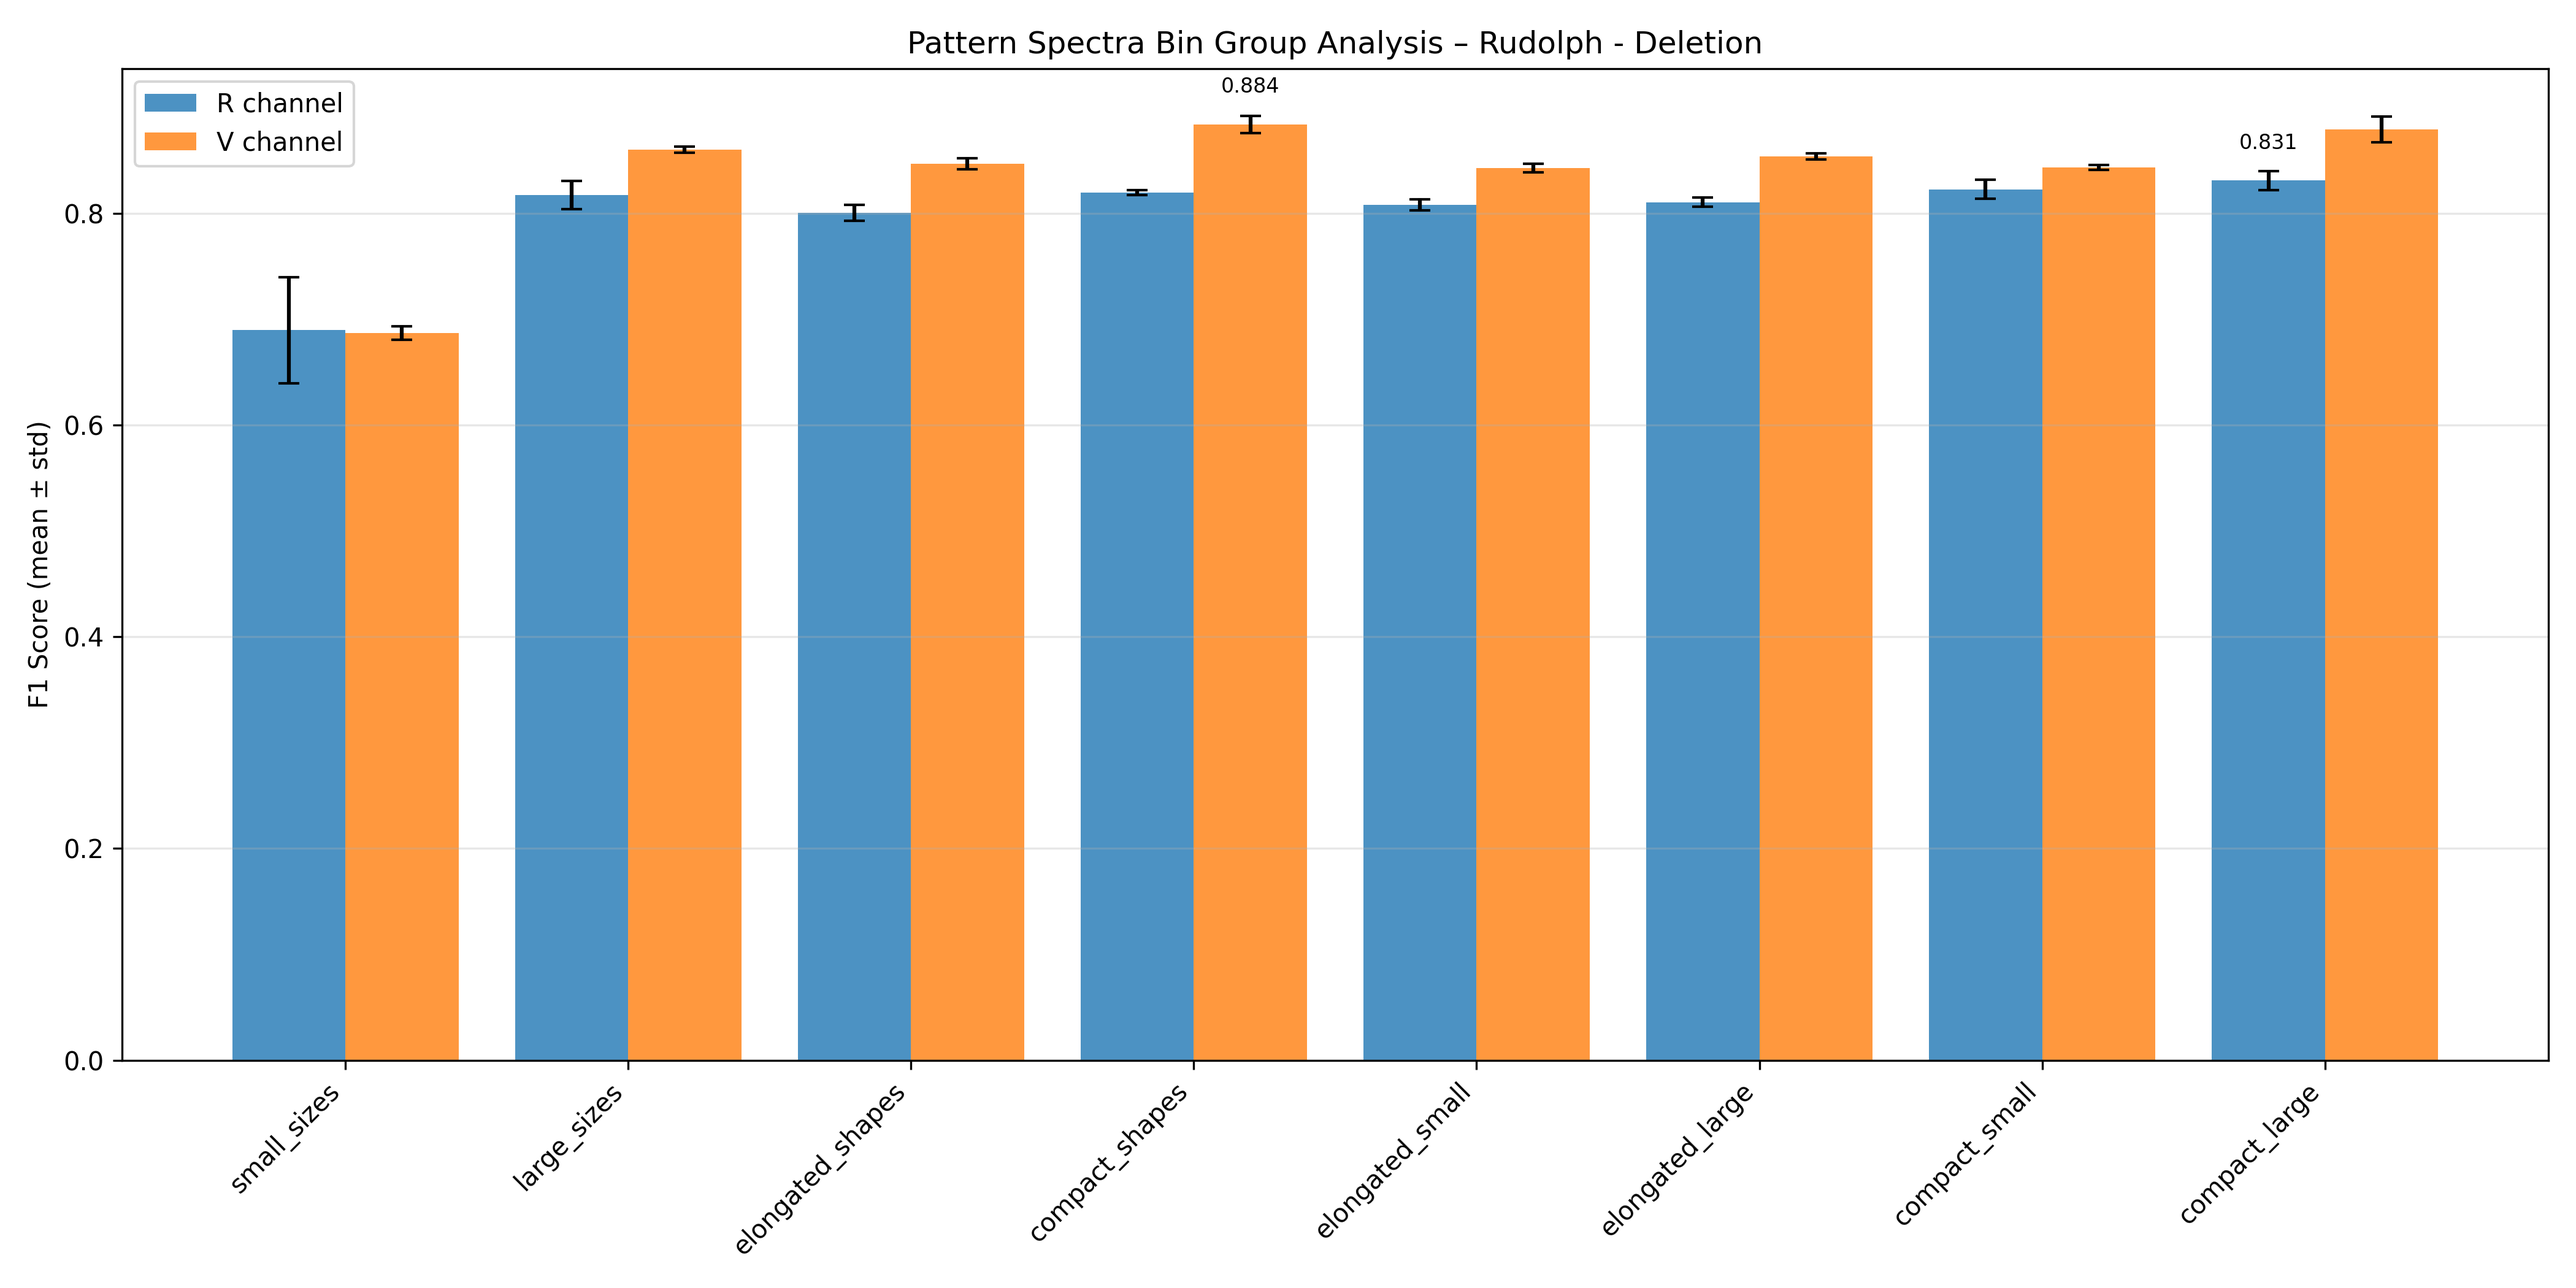
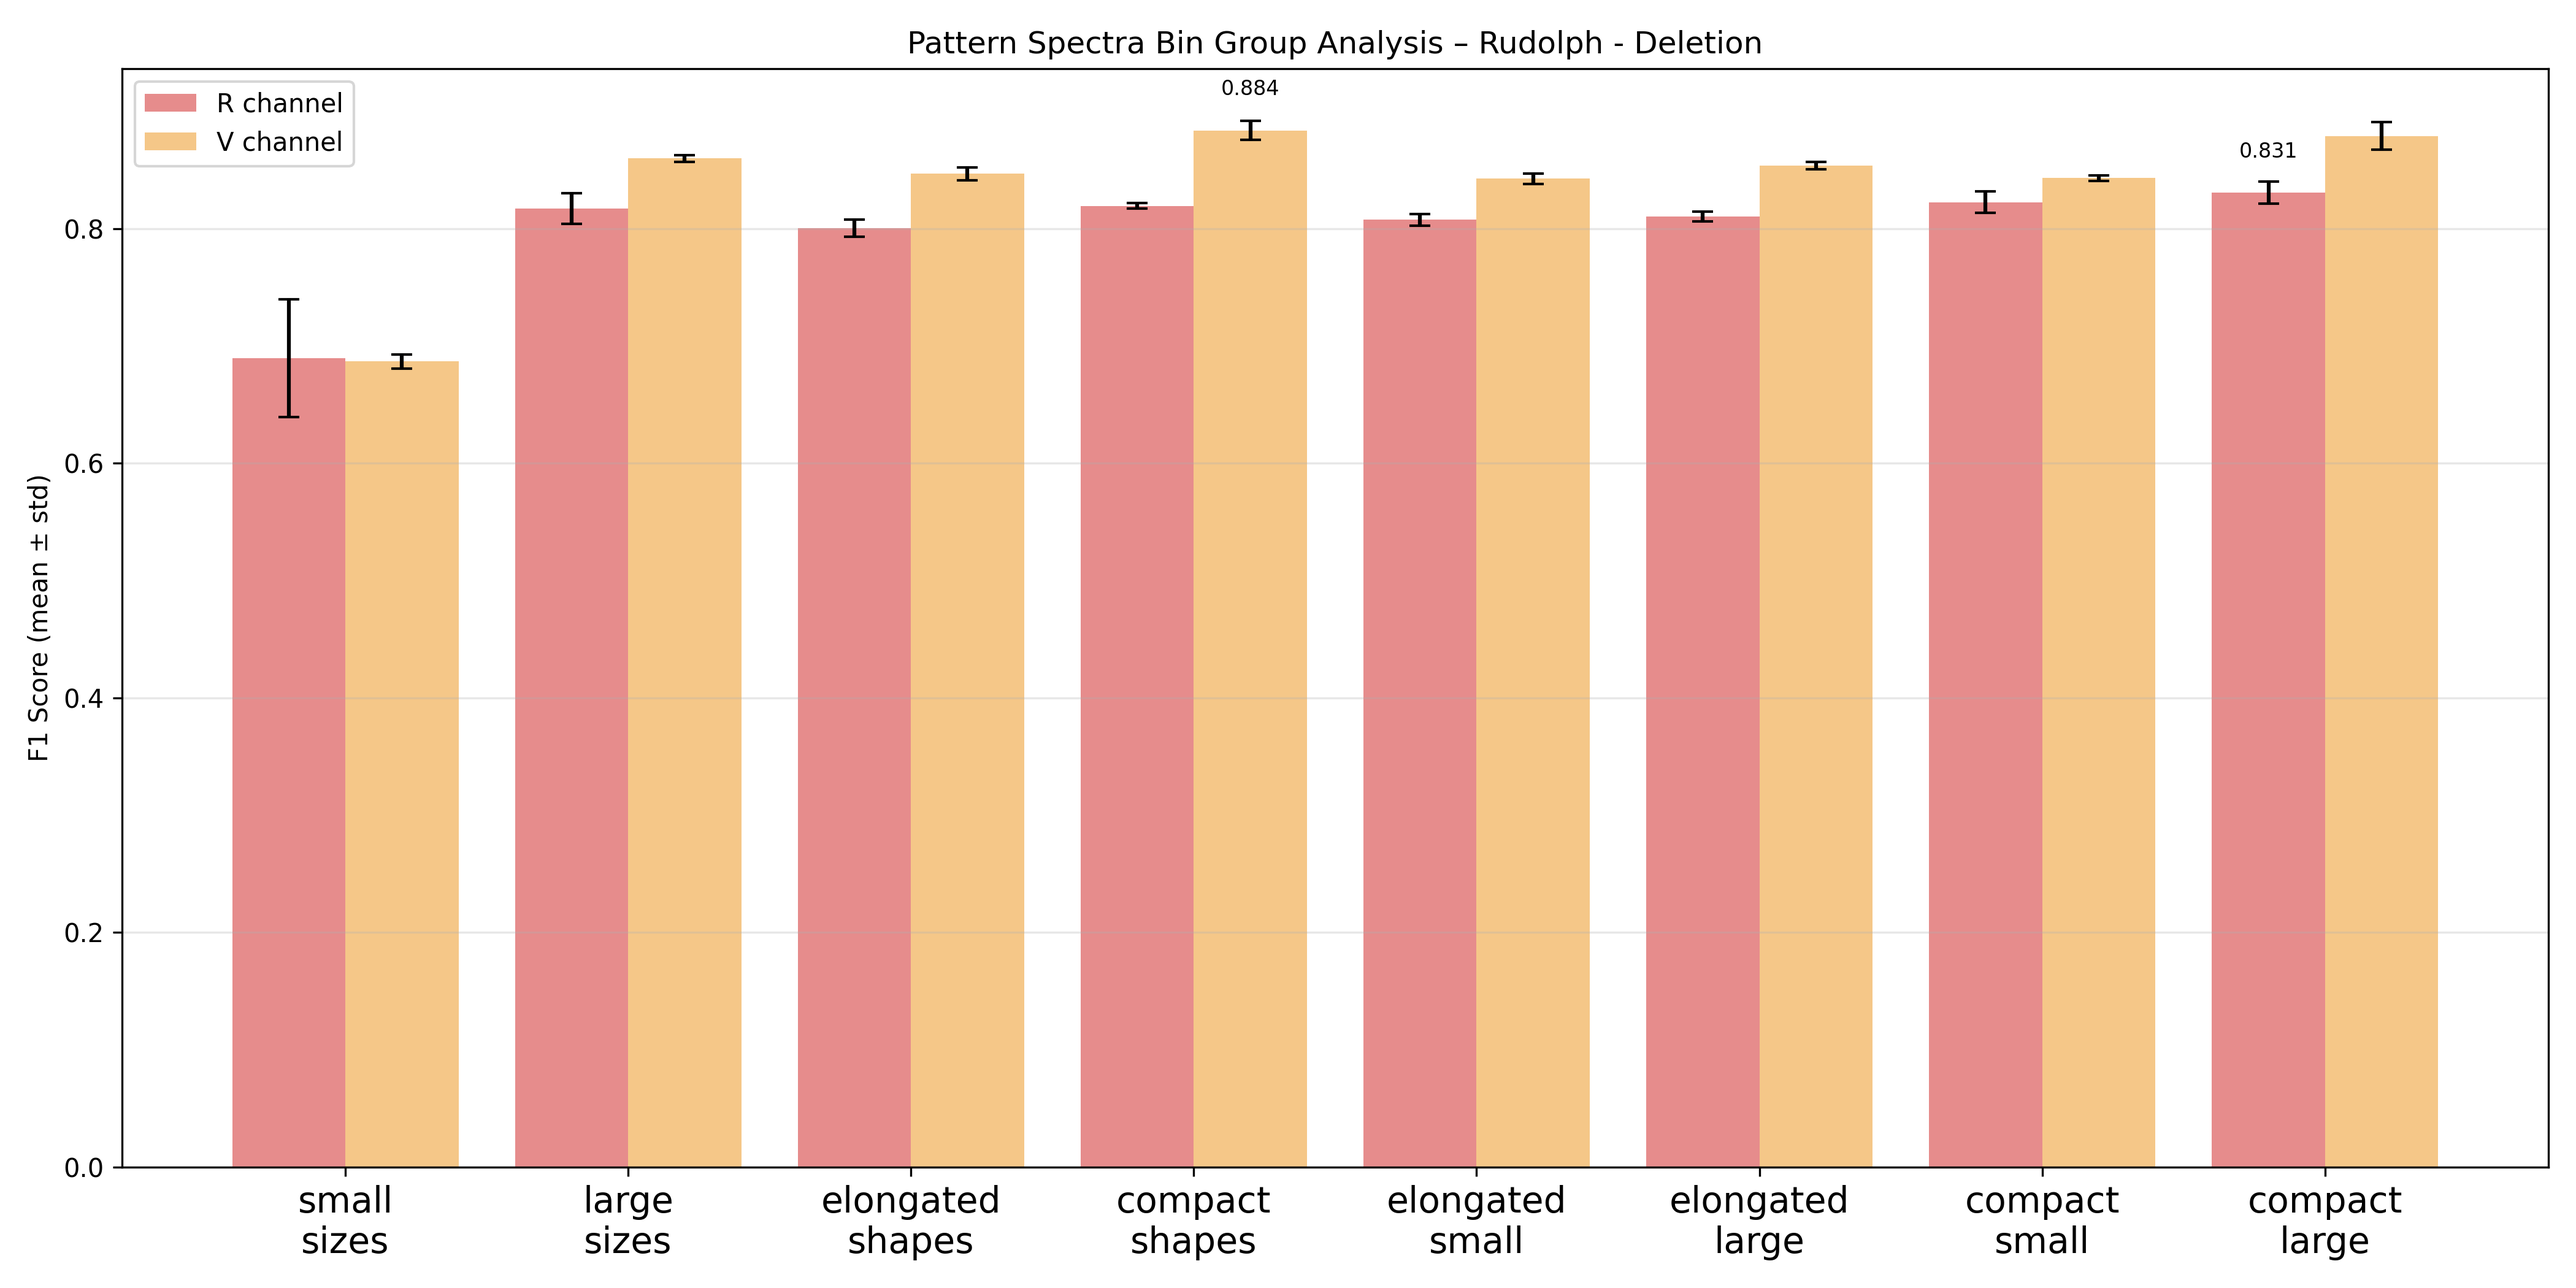
made plots prettier and cleaned up experiment a bit

diff --git a/Feature_Extraction/run_bin_analysis.py b/Feature_Extraction/run_bin_analysis.py
@@ -117,7 +117,7 @@ def create_feature_array_from_10x10(arr_10x10, shape_bins, size_bins): # INSERTI
 
 def create_feature_array_deletion(arr_10x10, shape_bins_to_remove, size_bins_to_remove):
     # return all bins except those in shape_bins_to_remove and size_bins_to_remove - FOR DELETION CASE
-    mask = np.ones((11, 11), dtype=bool)
+    mask = np.zeros((11, 11), dtype=bool)
     mask[np.ix_(shape_bins_to_remove, size_bins_to_remove)] = False
     sel = arr_10x10[mask] # apply removal mask 
 
@@ -205,25 +205,17 @@ def collect_preloaded(ROOT_DIR, label_map=LABEL_MAP, channels_to_load=None):
             for p in pattern_files:
                 arr = load_granulometry_m_file(p)
                 if arr.size == 0:
-                    arr10 = np.zeros((10, 10))
+                    continue
                 else:
                     arr = np.array(arr)
-                    if arr.shape[0] < 11 or arr.shape[1] < 11:
-                        arr11 = np.zeros((11, 11))
-                        h = min(11, arr.shape[0])
-                        w = min(11, arr.shape[1])
-                        arr11[:h, :w] = arr[:h, :w]
-                    else:
-                        arr11 = arr[:11, :11]
-
-                arrs.append(np.array(arr11, dtype=float))
+                arrs.append(np.array(arr, dtype=float))
             preloaded[label_name][ch] = np.array(arrs)
     return preloaded
 
 def main():
     parser = argparse.ArgumentParser()
     parser.add_argument("--variant", type=str, required=True, help="Variant folder (Spunta, Mondial, Fontane, Rudolph)")
-    parser.add_argument("--combo", type=str, default=None, help="Optional: specify best combo as underscore-separated channels, e.g. 'R_B' or 'R_G'")
+    parser.add_argument("--combo", type=str, default=None, help="specify best combo as underscore-separated channels, e.g. 'R_B' or 'R_G'")
     parser.add_argument("--eval_type", type=str, default="insertion", choices=["insertion", "deletion"], help="Choose whether to evaluate using insertion or deletion of bin groups")
     parser.add_argument("--output_dir", type=str, default=DEFAULT_OUT_DIR, help="Where to save results")
     args = parser.parse_args()
@@ -245,7 +237,7 @@ def main():
                 zip_ref.extractall(os.path.join(PROJECT_ROOT, "xmaxtree", "output"))
             print("Extracted Fontane.zip")
 
-    # because fontane has to bif of a dataset - too much computation for 5 folds 
+    # because fontane has to big of a dataset - too much computation for 5 folds 
     if args.variant == "Fontane":
         xval_count = 3
     else :
@@ -260,26 +252,6 @@ def main():
     if args.combo and args.combo.strip():
         best_combo = tuple(args.combo.strip().split("_"))
         print(f"Using provided combo: {best_combo}")
-    else:
-        prev_file = os.path.join(PROJECT_ROOT, "Feature_Extraction", "Channel_Combo_Results", f"{VARIANT}_channel_results.pkl")
-        if os.path.exists(prev_file):
-            prev = pickle.load(open(prev_file, "rb"))
-            best_combo = None
-            best_f1 = -1
-            if isinstance(prev, list) and len(prev):
-                for entry in prev:
-                    if isinstance(entry, dict):
-                        combo_name = entry.get("combo")
-                        avg_f1 = entry.get("avg_f1", -1)
-                    elif isinstance(entry, (tuple, list)) and len(entry) >= 2:
-                        combo_name = entry[0]
-                        avg_f1 = entry[1]
-                    else:
-                        continue
-                    if avg_f1 > best_f1:
-                        best_f1 = avg_f1
-                        best_combo = tuple(combo_name.split("_"))
-            print(f"Auto-loaded best combo from {prev_file}: {best_combo} (avg_f1={best_f1:.4f})")
 
     # --- Preload only needed channels ---
     print(f"Preloading pattern spectra for channels: {best_combo} ...")
@@ -287,6 +259,7 @@ def main():
     print("Preload complete.")
 
 
+    # build train/test indices
     label_train_test_indices = {}
     for label_name in LABEL_MAP:
         n_samples_label = preloaded[label_name][CHANNEL_POOL[0]].shape[0]
@@ -305,8 +278,8 @@ def main():
 
     # Include the 10th bin now (0..10)
     elongated_shape_bins = list(range(0, 6))  # 0..5
-    compact_shape_bins  = list(range(6, 11)) # 6..10
-    size_bins            = list(range(11))   # 0..10
+    compact_shape_bins = list(range(6, 11)) # 6..10
+    size_bins = list(range(11))   # 0..10
 
     small_size_bins = list(range(0, 6))   # 0..5
     large_size_bins = list(range(6, 11))  # 6..10
@@ -340,12 +313,12 @@ def main():
     subset_specs.append({
         "kind": "elongated_shapes",
         "shape_bins": elongated_shape_bins,
-        "size_bins": size_bins.copy()
+        "size_bins": small_size_bins + large_size_bins
     })
     subset_specs.append({
         "kind": "compact_shapes",
         "shape_bins": compact_shape_bins,
-        "size_bins": size_bins.copy()
+        "size_bins": small_size_bins + large_size_bins
     })
 
     # blocks - combined shape and size
@@ -415,7 +388,10 @@ def main():
             Xte_list = []
             yte_list = []
             for xi, yi in zip(X_test_full_10x10, y_test_full):
-                fv = create_feature_array_from_10x10(xi, s_bins, z_bins)
+                if args.eval_type == "insertion":
+                    fv = create_feature_array_from_10x10(xi, s_bins, z_bins)
+                else:  # deletion
+                    fv = create_feature_array_deletion(xi, s_bins, z_bins)
                 if fv is None:
                     continue
                 Xte_list.append(fv)
@@ -460,9 +436,6 @@ def main():
 
         # Pick best subset for this channel
         valid_results = [r for r in channel_results if "f1_mean_across_iters" in r]
-        if not valid_results:
-            print(f"No valid subsets for channel {ch} (all skipped). Continuing to next channel.")
-            continue
         best_subset = max(valid_results, key=lambda rr: rr["f1_mean_across_iters"])
         print(f"\nBest subset for channel {ch}: {best_subset['kind']} (avg F1={best_subset['f1_mean_across_iters']:.4f})")
 
@@ -636,6 +609,8 @@ def main():
     yte_final = np.array(yte_final, dtype=np.int64)
 
     print(f"\nTraining final multi-channel model using {len(best_combo)} channels...")
+
+    # train on full train set and evaluate on test set
     multi_model = make_model()
     multi_model.fit(Xtr_final, ytr_final)
     y_pred_final = multi_model.predict(Xte_final)

diff --git a/Feature_Extraction/plot_bin_results.py b/Feature_Extraction/plot_bin_results.py
@@ -9,6 +9,14 @@ VARIANTS = ["Rudolph", "Mondial", "Spunta"]
 RESULTS_DIR = "Bin_Analysis_Results"     # folder with PKLs
 PLOT_DIR = "Plots/bin_analysis/Deletion"   # folder where figures will be saved
 
+COLOR_MAP = {
+    "R": '#E07070',     
+    "B": '#7BA8D4',      
+    "G": '#7CB87C',      
+    "H": '#B896D4',      
+    "V": "#F3BA6B",      
+    "S": "#792468",      
+}
 def find_channels_for_variant(variant):
     channels = []
     for fname in os.listdir(RESULTS_DIR):
@@ -27,7 +35,7 @@ def load_channel_results(variant, channel):
 
 
 def collect_variant_data(variant, channels):
-    data = {k:{} for k in EXPECTED_KINDS}
+    data = {k:{} for k in BIN_GROUPS}
 
     for ch in channels:
         results = load_channel_results(variant, ch)
@@ -58,7 +66,7 @@ def plot_variant(variant):
 
     data = collect_variant_data(variant, channels)
 
-    x = np.arange(len(EXPECTED_KINDS))
+    x = np.arange(len(BIN_GROUPS))
     num_channels = len(channels)
     width = 0.8 / num_channels
 
@@ -66,7 +74,7 @@ def plot_variant(variant):
     for i, ch in enumerate(channels):
         means = []
         stds = []
-        for kind in EXPECTED_KINDS:
+        for kind in BIN_GROUPS:
             if ch in data[kind]:
                 m, s = data[kind][ch]
                 means.append(m)
@@ -78,6 +86,7 @@ def plot_variant(variant):
         # offset each channel's bar horizontally
         offset = (i - num_channels/2) * width + width/2
 
+        # plot bar with the color from COLOR_MAP 
         plt.bar(
             x + offset,
             means,
@@ -85,13 +94,14 @@ def plot_variant(variant):
             yerr=stds,
             capsize=4,
             label=f"{ch} channel",
-            alpha=0.8
+            alpha=0.8,
+            color=COLOR_MAP.get(ch, 'black')
         )
 
     # annotate bars with mean f1 only for the highest mean F1 per channel
     for i, ch in enumerate(channels):
         means = []
-        for kind in EXPECTED_KINDS:
+        for kind in BIN_GROUPS:
             if ch in data[kind]:
                 m, s = data[kind][ch]
                 means.append(m)
@@ -111,7 +121,9 @@ def plot_variant(variant):
             fontsize=8
         )
 
-    plt.xticks(x, EXPECTED_KINDS, rotation=45, ha="right")
+    bin_labels = [label.replace("_", "\n") for label in BIN_GROUPS]
+    
+    plt.xticks(x, bin_labels, fontsize=14)
     plt.ylabel("F1 Score (mean ± std)")
     if EVAL_MODE == "deletion":
         plt.title(f"Pattern Spectra Bin Group Analysis – {variant} - Deletion")
@@ -139,7 +151,7 @@ if __name__ == "__main__":
 
 
     # Order of subsets on x-axis
-    EXPECTED_KINDS = [
+    BIN_GROUPS = [
         "small_sizes",
         "large_sizes",
         "elongated_shapes",
